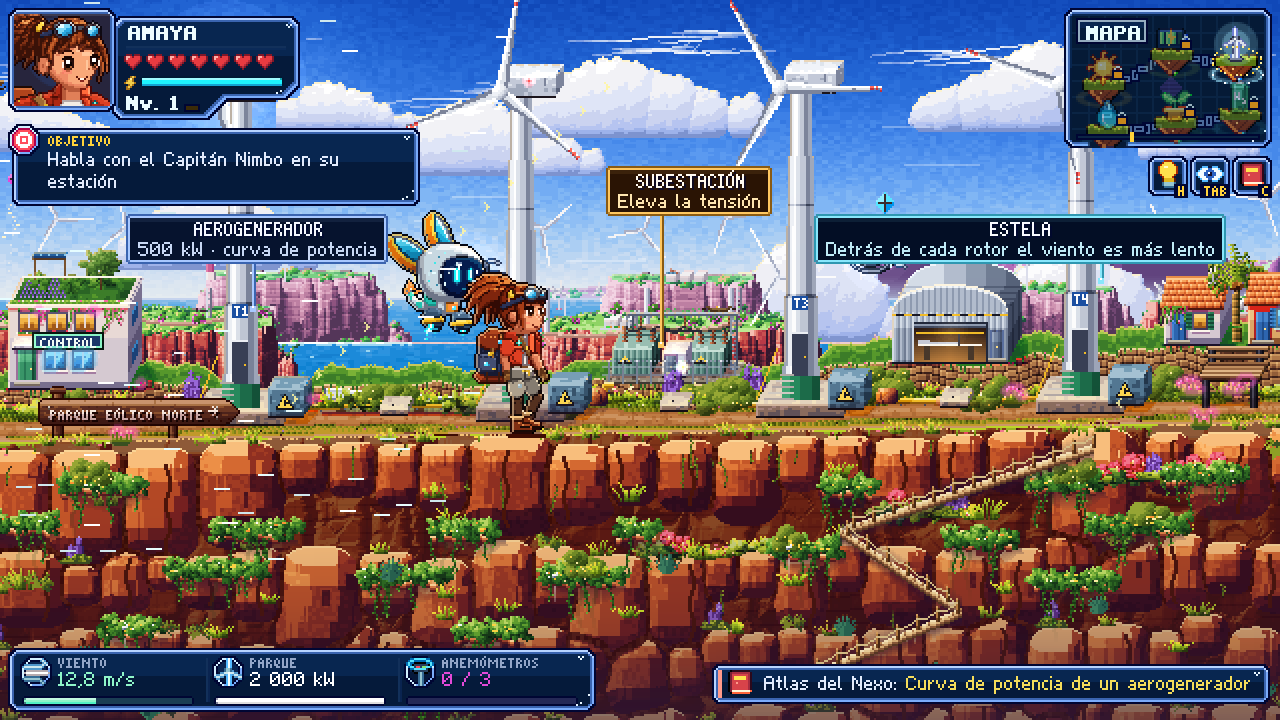
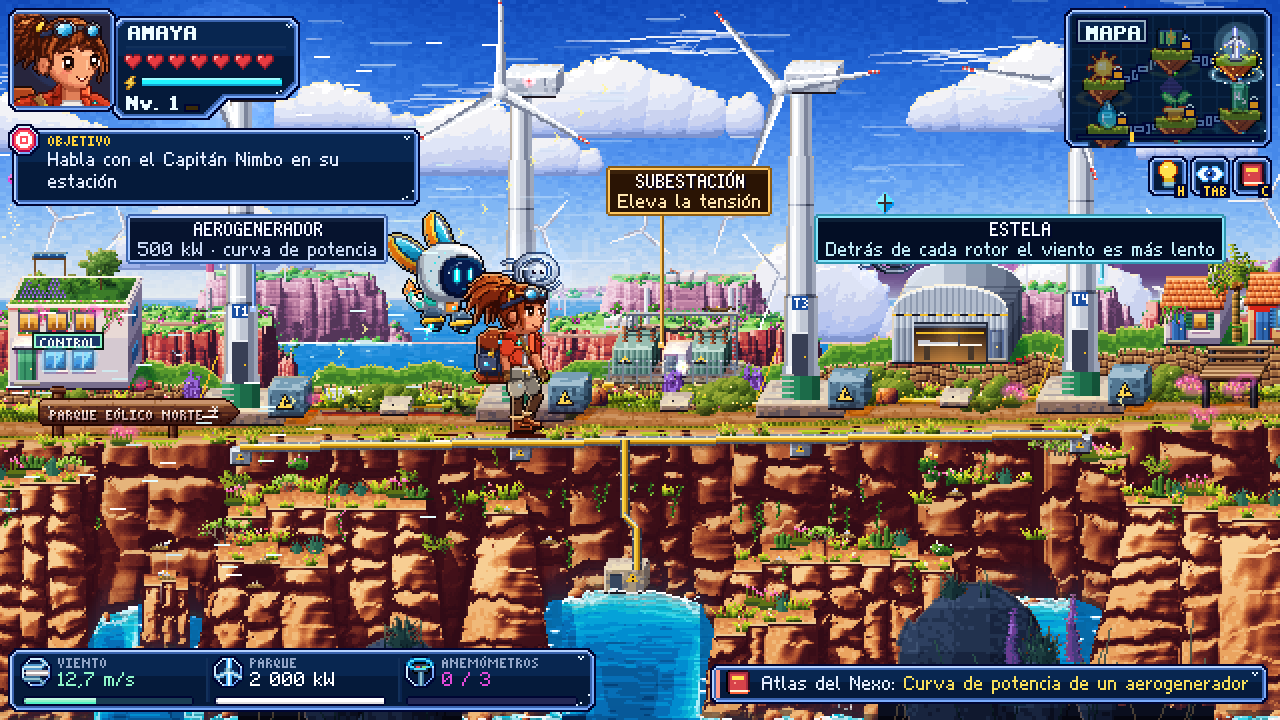
Cierre de los pendientes del rediseño: N5, N8, N10 y etiquetas documentados; capturas del README de N5, N8 y N10 actualizadas
Claude-Session: https://claude.ai/code/session_01VR2EjJhrXjgVHj6TQoKWp1

diff --git a/docs/art/analisis/06_evaluacion_final.md b/docs/art/analisis/06_evaluacion_final.md
@@ -13,9 +13,9 @@ genérico · 1 = plataformas retro sencillo.
 ## Ronda 3 (cierre del rediseño)
 
 Tercera y última ronda, dirigida a las carencias de la ronda 2. Se cerró a petición del
-usuario tras completar la iteración en curso; **no se ha vuelto a convocar a los jueces
-independientes**, de modo que las notas vigentes siguen siendo las de la ronda 2 y no se
-afirma que el umbral del STYLE LOCK §16 esté superado.
+usuario tras completar la iteración en curso y, después, sus cuatro pendientes. **No se ha
+vuelto a convocar a los jueces independientes**, de modo que las notas vigentes siguen siendo
+las de la ronda 2 y no se afirma que el umbral del STYLE LOCK §16 esté superado.
 
 Hecho en esta ronda:
 
@@ -45,13 +45,33 @@ Hecho en esta ronda:
 - **Corrección**: los seis vecinos de fondo del epílogo eran invisibles (usaban un sprite
   inexistente); ahora se dibujan.
 
-Pendiente al cerrar (no abordado):
+Pendientes cerrados después (última pasada, a petición del usuario):
 
-- N5: la mitad inferior sigue siendo un único frente de acantilado; estelas de los rotores.
-- N10: arena que vela las piernas de Amaya, más vegetación y chabolas en 3/4.
-- N8: cordillera propia, corte de suelo y banco de semillas en 3/4.
-- Revisión general de solapes de etiquetas (WorldLabels) y repaso global de luz por nivel.
-- Nueva evaluación independiente de los doce criterios.
+- **N5**: la mitad inferior deja de ser un único frente de acantilado: diorama esculpido con
+  cabos escalonados y sombra granate, calas con espuma y reflejos, cuevas marinas, sendas,
+  escalera hasta un embarcadero, conducciones de los aerogeneradores hasta una caseta de
+  aterrizaje del cable, colonia de aves marinas y flora canaria en repisas; oleaje, rociones y
+  gaviotas animados; estela tenue detrás de cada rotor (por debajo de rótulos y etiquetas);
+  plano frontal de rocas frías.
+- **N10**: la cinta de arena rasante pasa detrás de los personajes salvo la franja de los
+  tobillos; las piernas de Amaya ya no quedan veladas.
+- **N8**: cordilleras erosionadas propias (caras ocres, sombras violeta, cárcavas, cordillera
+  fantasma); corte de suelo denso e iluminado (estratos, acuífero, goteo enterrado, tuberías con
+  chevrones, sondas, raíces, lombrices, hormiguero); banco de semillas en 3/4 (cubierta con FV y
+  captavientos, banda de sombra bajo la cornisa, lateral en sombra, sombra arrojada); cultivos que
+  se mecen, insectos, aves y agua animada (8–12 % de píxeles animados, antes 2–5 %).
+- **Etiquetas** (`src/18f_pf_signs.js`): una etiqueta ya no se desplaza sobre su propio ancla
+  (perdía el tallo); se ocultan las de objetos fuera de pantalla o bajo el HUD; los tallos
+  esquivan el HUD superior e inferior y los avisos del Atlas; los rótulos horneados de
+  `def.labelAvoid` bloquean caja y tallo; tallos hacia arriba; nuevo `def.labelOffsets` por nivel;
+  las etiquetas se dibujan por encima de partículas y fauna en el título. Ajustes en N0, N1, N2,
+  N4, N6, N7, N9, N10, N11 y el título; barrido de 13 posiciones por nivel sin solapes.
+
+Sigue pendiente: una nueva evaluación independiente de los doce criterios. Quedan detalles
+menores anotados por los constructores: el panel de indicadores inferior tapa parte del mar del
+N5 y del corte de suelo del N8; la cordillera del N8 carece de los medios tonos rosados de la
+referencia; el texto «kW!» de los enemigos móviles del N4 puede pasar bajo la etiqueta
+SEGUIDORES.
 
 Pruebas al cierre: humo («Humo OK»), 77/77 pruebas científicas, banco válido y 19/19
 comprobaciones de la Calima; sin errores de consola.
